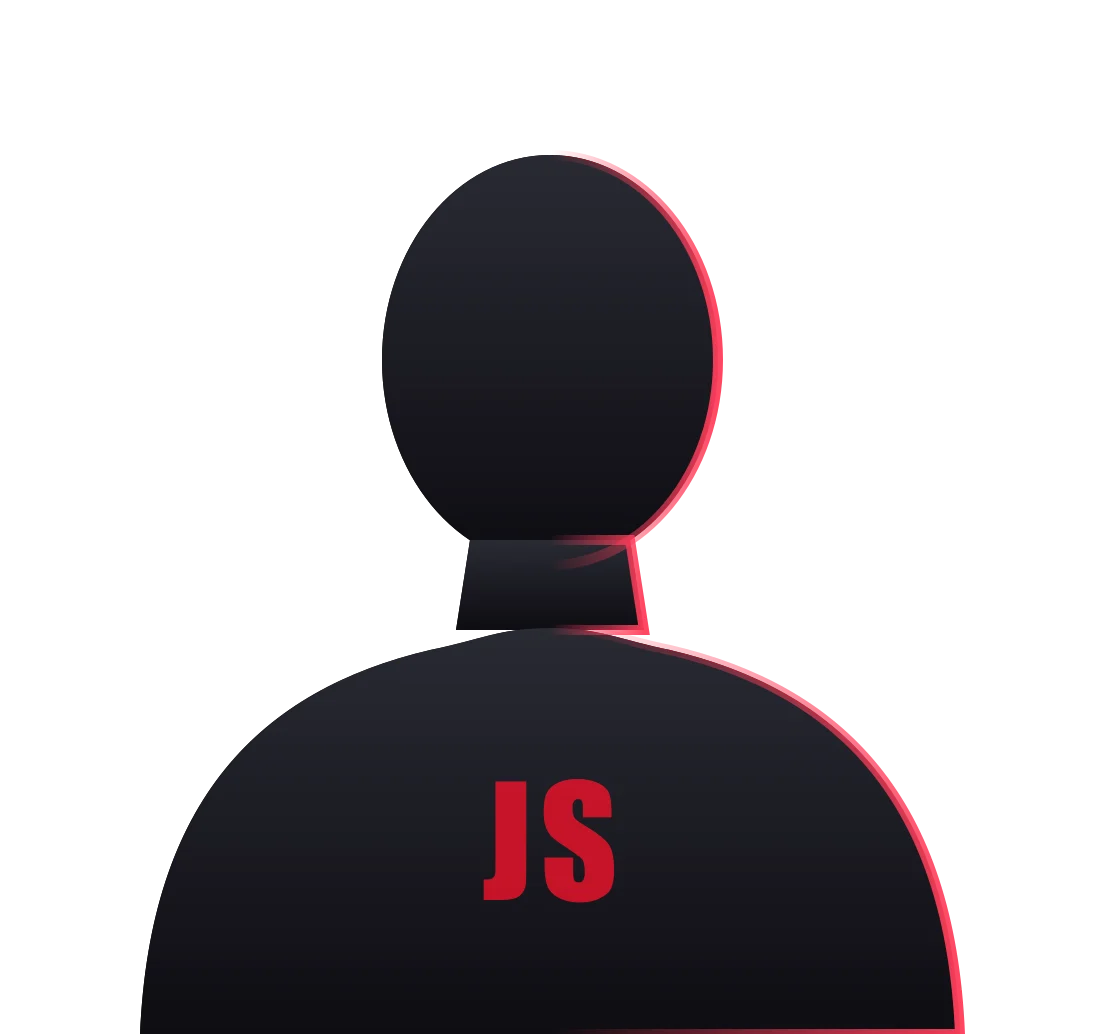
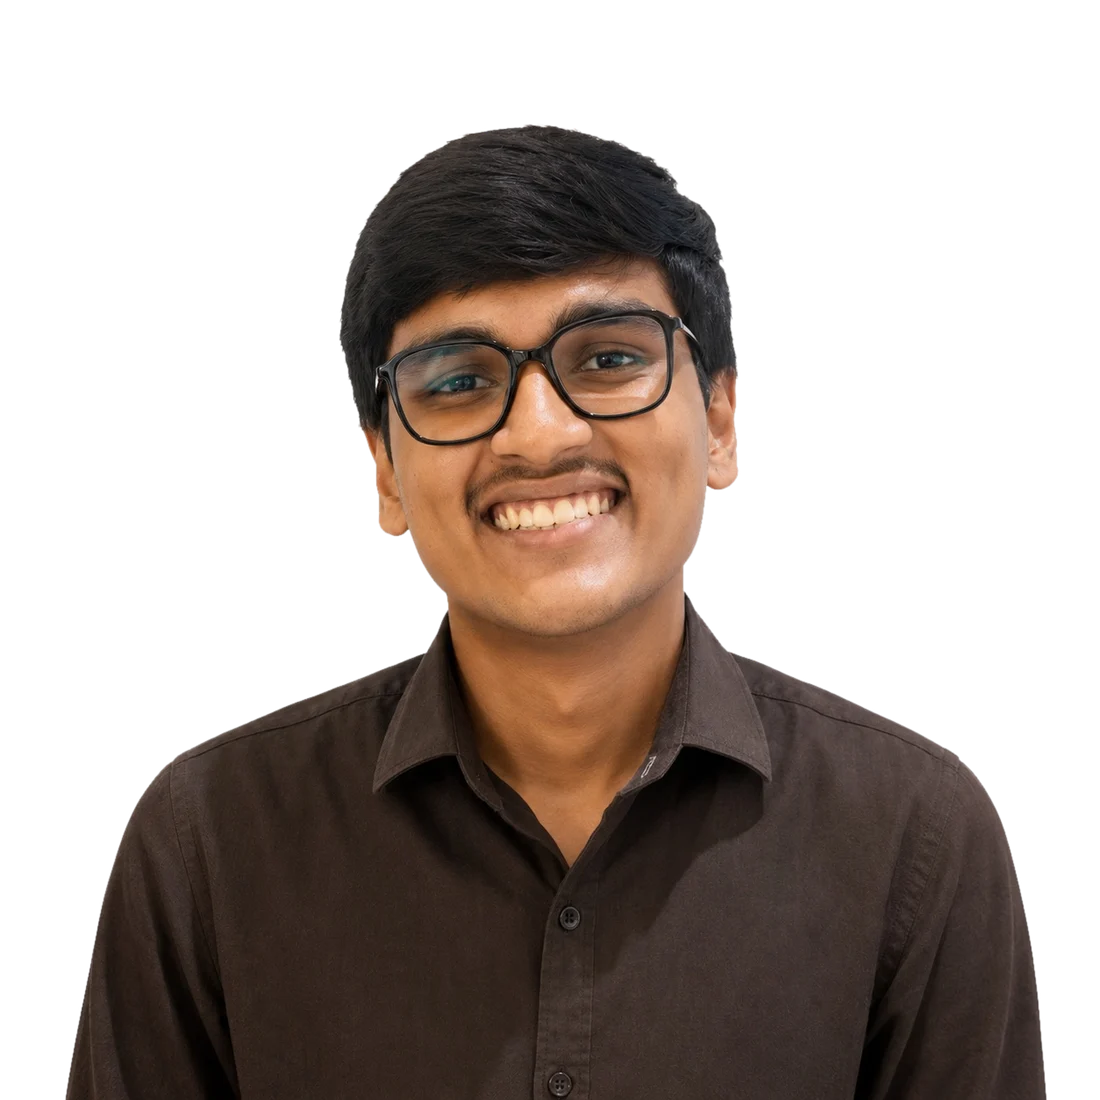
Add real portrait: cutout script and rebuilt images

diff --git a/README.md b/README.md
@@ -53,7 +53,7 @@ npm run images
 
 This rebuilds the responsive WebP portraits and the social share image in `public/assets/`.
 
-Until a photo is added, the site uses a silhouette made by `node scripts/placeholder-portrait.mjs`.
+Shot on a plain light background? `node scripts/cutout.mjs <photo>` makes `pic.png` and `pic1.jpeg` for you (it removes only background connected to the edges, so teeth and glasses highlights are kept).
 
 ## What's inside
 
